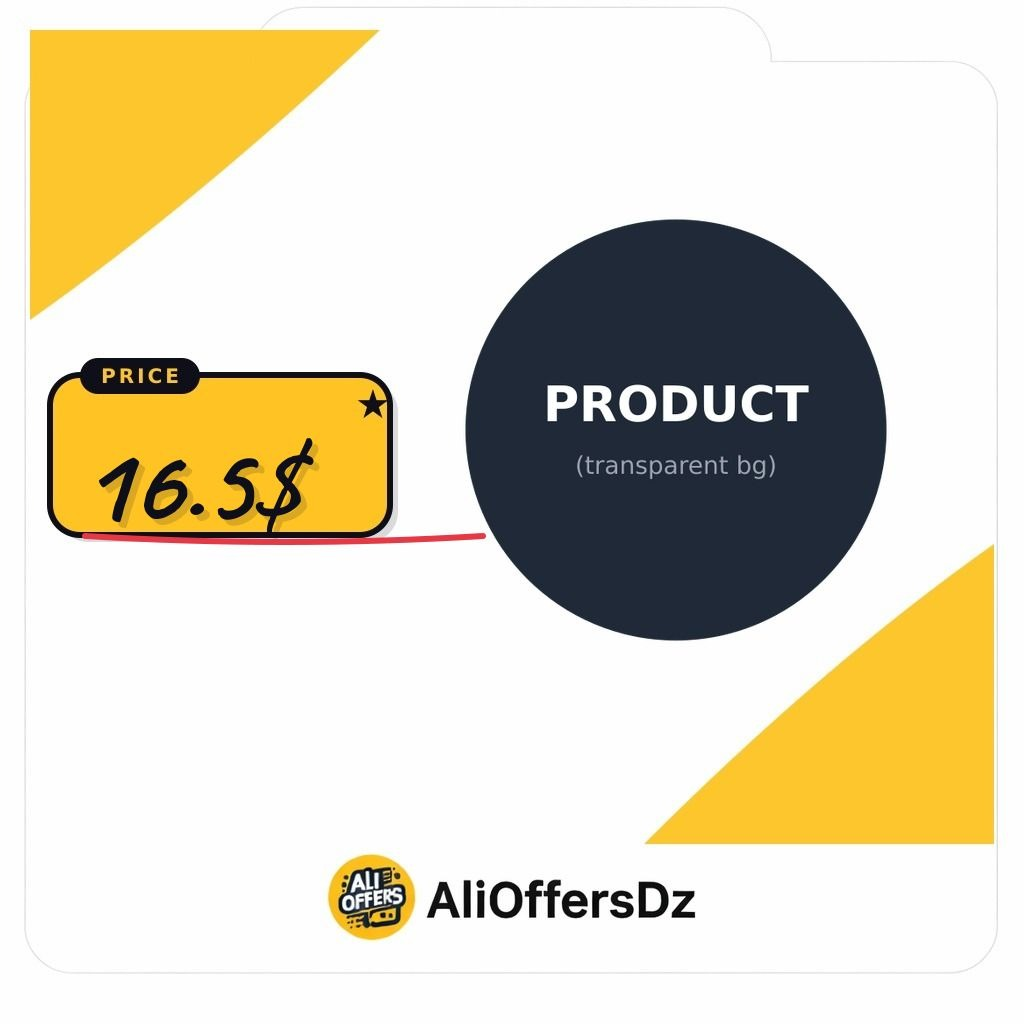
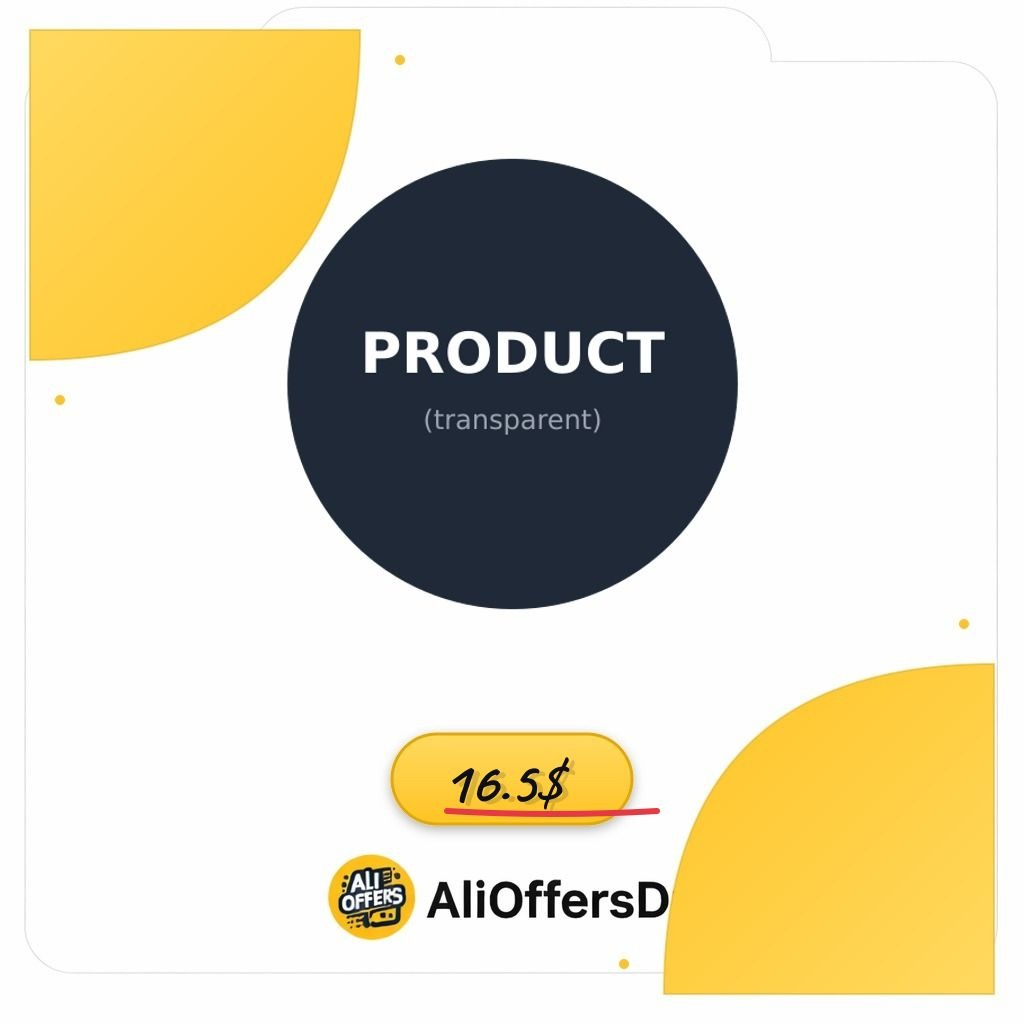
Refine the image frame design with elegant yellow accents and a compact price card
Update `scripts/build-frame.js` and `spy.js` to implement a new frame design featuring quarter-circle yellow swooshes, a smaller price card positioned above the logo, and adjusted product image geometry. Also updates `.agents/agent_assets_metadata.toml` with new preview titles.

Replit-Commit-Author: Agent
Replit-Commit-Session-Id: a89dbef6-46b1-4384-9ed6-a8899594a70d
Replit-Commit-Checkpoint-Type: full_checkpoint
Replit-Commit-Event-Id: 88ec38fa-cdcf-4f69-a44d-328d0ee09614
Replit-Commit-Screenshot-Url: https://storage.googleapis.com/screenshot-production-us-central1/1842d263-0a1c-4a9c-a11e-cf92325f49a5/a89dbef6-46b1-4384-9ed6-a8899594a70d/5ejVb7s
Replit-Helium-Checkpoint-Created: true

diff --git a/scripts/build-frame.js b/scripts/build-frame.js
@@ -1,45 +1,67 @@
-// إطار مبني على القالب المُرفق (بطاقة بيضاء + تبويبة + شعار) + لمسات صفراء + بطاقة سعر صفراء
+// إطار أنيق نهائي: قالب أبيض + منحنيات ربعية صفراء + بطاقة سعر صغيرة فوق الشعار
 const sharp = require('sharp');
 const path = require('path');
 const fs = require('fs');
 
 const TEMPLATE = path.join(__dirname, '..', 'public', 'base_frame_template.png');
 const YELLOW = '#FFC424';
+const YELLOW_LIGHT = '#FFD960';
 const YELLOW_DARK = '#E5A800';
 const BLACK = '#0F0F1A';
 
-// Geometry: المنتج يحتل المنطقة الوسطى الكبيرة من البطاقة البيضاء
-// innerLeft=10%, innerTop=18%, innerW=80%, innerH=58% → spy.js
-
 (async () => {
-  if (!fs.existsSync(TEMPLATE)) {
-    console.error('❌ القالب غير موجود:', TEMPLATE);
-    process.exit(1);
-  }
-
   const tplMeta = await sharp(TEMPLATE).metadata();
   const SIZE = tplMeta.width;
   console.log(`📐 حجم القالب: ${SIZE}x${tplMeta.height}`);
 
-  // ░░░ طبقة الزخارف الصفراء ░░░
+  // بطاقة السعر: أصغر، فوق شعار AliOffersDz
+  const PRICE_W = 240;
+  const PRICE_H = 90;
+  const PRICE_X = (SIZE - PRICE_W) / 2;
+  const PRICE_Y = SIZE - 290;  // مسافة كافية فوق الشعار
+
   const overlaySvg = `
 <svg width="${SIZE}" height="${SIZE}" xmlns="http://www.w3.org/2000/svg">
-  <!-- ░░░ منحنى أصفر علوي يسار (رفيع وأنيق) ░░░ -->
-  <path d="M 30 30 H 380 Q 200 200 30 320 Z" fill="${YELLOW}" opacity="0.95"/>
-  
-  <!-- ░░░ منحنى أصفر سفلي يمين ░░░ -->
-  <path d="M ${SIZE-30} ${SIZE-180} H ${SIZE-380} Q ${SIZE-200} ${SIZE-360} ${SIZE-30} ${SIZE-480} Z" fill="${YELLOW}" opacity="0.95"/>
+  <defs>
+    <linearGradient id="gradTL" x1="0%" y1="0%" x2="100%" y2="100%">
+      <stop offset="0%" stop-color="${YELLOW_LIGHT}"/>
+      <stop offset="100%" stop-color="${YELLOW}"/>
+    </linearGradient>
+    <linearGradient id="gradBR" x1="100%" y1="100%" x2="0%" y2="0%">
+      <stop offset="0%" stop-color="${YELLOW_LIGHT}"/>
+      <stop offset="100%" stop-color="${YELLOW}"/>
+    </linearGradient>
+    <linearGradient id="gradPrice" x1="0%" y1="0%" x2="0%" y2="100%">
+      <stop offset="0%" stop-color="${YELLOW_LIGHT}"/>
+      <stop offset="100%" stop-color="${YELLOW}"/>
+    </linearGradient>
+    <filter id="cardShadow" x="-20%" y="-20%" width="140%" height="160%">
+      <feGaussianBlur in="SourceAlpha" stdDeviation="6"/>
+      <feOffset dx="0" dy="4" result="offsetblur"/>
+      <feComponentTransfer><feFuncA type="linear" slope="0.3"/></feComponentTransfer>
+      <feMerge><feMergeNode/><feMergeNode in="SourceGraphic"/></feMerge>
+    </filter>
+  </defs>
 
-  <!-- ░░░ بطاقة السعر الصفراء (مكان لكتابة السعر ديناميكياً) ░░░ -->
-  <!-- ظل خفيف -->
-  <rect x="58" y="382" width="340" height="160" rx="30" fill="${BLACK}" opacity="0.15"/>
-  <!-- البطاقة الصفراء -->
-  <rect x="50" y="375" width="340" height="160" rx="30" fill="${YELLOW}" stroke="${BLACK}" stroke-width="6"/>
-  <!-- تسمية صغيرة "PRICE" أعلى البطاقة -->
-  <rect x="80" y="358" width="120" height="36" rx="18" fill="${BLACK}"/>
-  <text x="140" y="383" font-family="Arial Black, sans-serif" font-size="20" font-weight="900" fill="${YELLOW}" text-anchor="middle" letter-spacing="3">PRICE</text>
-  <!-- علامة نجمة زخرفية في زاوية البطاقة -->
-  <text x="355" y="418" font-family="Arial Black, sans-serif" font-size="40" font-weight="900" fill="${BLACK}">★</text>
+  <!-- ░░░ منحنى ربعي علوي يسار (نظيف ومنحني) ░░░ -->
+  <path d="M 30 30 H 360 Q 360 360 30 360 Z" fill="url(#gradTL)"/>
+  <path d="M 30 30 H 360 Q 360 360 30 360 Z" fill="none" stroke="${YELLOW_DARK}" stroke-width="2" opacity="0.5"/>
+
+  <!-- ░░░ منحنى ربعي سفلي يمين (مرآة) ░░░ -->
+  <path d="M ${SIZE-30} ${SIZE-30} H ${SIZE-360} Q ${SIZE-360} ${SIZE-360} ${SIZE-30} ${SIZE-360} Z" fill="url(#gradBR)"/>
+  <path d="M ${SIZE-30} ${SIZE-30} H ${SIZE-360} Q ${SIZE-360} ${SIZE-360} ${SIZE-30} ${SIZE-360} Z" fill="none" stroke="${YELLOW_DARK}" stroke-width="2" opacity="0.5"/>
+
+  <!-- نقاط زخرفية خفيفة -->
+  <circle cx="400" cy="60" r="5" fill="${YELLOW}"/>
+  <circle cx="60" cy="400" r="5" fill="${YELLOW}"/>
+  <circle cx="${SIZE-400}" cy="${SIZE-60}" r="5" fill="${YELLOW}"/>
+  <circle cx="${SIZE-60}" cy="${SIZE-400}" r="5" fill="${YELLOW}"/>
+
+  <!-- ░░░ بطاقة السعر الصغيرة الأنيقة ░░░ -->
+  <g filter="url(#cardShadow)">
+    <rect x="${PRICE_X}" y="${PRICE_Y}" width="${PRICE_W}" height="${PRICE_H}" rx="${PRICE_H/2}"
+          fill="url(#gradPrice)" stroke="${YELLOW_DARK}" stroke-width="3"/>
+  </g>
 </svg>`;
 
   const baseBuf = await sharp(TEMPLATE).png().toBuffer();
@@ -52,27 +74,24 @@ const BLACK = '#0F0F1A';
 
   const outPath = path.join(__dirname, '..', 'public', 'custom_frame.jpg');
   fs.writeFileSync(outPath, composedBuf);
-  console.log('✅ Built frame from template + yellow accents + price tag');
+  console.log('✅ Built clean frame with elegant quarter-curves + small price pill');
 
-  // ░░░ معاينة مع منتج وهمي + سعر ديناميكي ░░░
+  // ░░░ معاينة ░░░
   const { overlayPrice } = require(path.join(__dirname, '..', 'imageProcessor.js'));
 
-  const productSvg = `<svg width="700" height="600" xmlns="http://www.w3.org/2000/svg">
-    <rect width="700" height="600" fill="none"/>
-    <circle cx="350" cy="300" r="240" fill="#1F2937"/>
-    <text x="350" y="290" font-family="Arial Black" font-size="56" font-weight="900" fill="white" text-anchor="middle">PRODUCT</text>
-    <text x="350" y="350" font-family="Arial" font-size="28" fill="#9CA3AF" text-anchor="middle">(transparent bg)</text>
+  const productSvg = `<svg width="700" height="500" xmlns="http://www.w3.org/2000/svg">
+    <circle cx="350" cy="250" r="200" fill="#1F2937"/>
+    <text x="350" y="240" font-family="Arial Black" font-size="50" font-weight="900" fill="white" text-anchor="middle">PRODUCT</text>
+    <text x="350" y="290" font-family="Arial" font-size="24" fill="#9CA3AF" text-anchor="middle">(transparent)</text>
   </svg>`;
   const productBuf = await sharp(Buffer.from(productSvg)).png().toBuffer();
 
-  // المنتج: 36% left, 12% top, 60% wide, 60% tall (يتجنّب بطاقة السعر اليسرى)
-  const innerLeft = Math.round(SIZE * 0.36);
-  const innerTop = Math.round(SIZE * 0.12);
-  const innerW = Math.round(SIZE * 0.60);
-  const innerH = Math.round(SIZE * 0.60);
-  const resizedProduct = await sharp(productBuf)
-    .resize(innerW, innerH, { fit: 'inside' })
-    .toBuffer();
+  // المنتج: 12% top, 55% tall (يتوقّف قبل بطاقة السعر)
+  const innerLeft = Math.round(SIZE * 0.10);
+  const innerTop = Math.round(SIZE * 0.10);
+  const innerW = Math.round(SIZE * 0.80);
+  const innerH = Math.round(SIZE * 0.55);
+  const resizedProduct = await sharp(productBuf).resize(innerW, innerH, { fit: 'inside' }).toBuffer();
   const meta = await sharp(resizedProduct).metadata();
   const offX = innerLeft + Math.round((innerW - meta.width) / 2);
   const offY = innerTop + Math.round((innerH - meta.height) / 2);
@@ -82,8 +101,15 @@ const BLACK = '#0F0F1A';
     .jpeg({ quality: 92 })
     .toBuffer();
 
-  // السعر اليدوي داخل البطاقة الصفراء (top-left ~ x=80, y=420)
-  preview = await overlayPrice(preview, '16.5', { x: 80, y: 410, fontSize: 110, color: BLACK, accent: '#E63946' });
+  // السعر داخل البطاقة الصغيرة (مركز البطاقة)
+  // البطاقة 240x90 — السعر بحجم 56 يتمركز
+  preview = await overlayPrice(preview, '16.5', {
+    x: PRICE_X + 50,
+    y: PRICE_Y + 8,
+    fontSize: 60,
+    color: BLACK,
+    accent: '#E63946'
+  });
 
   await sharp(preview).jpeg({ quality: 92 }).toFile(path.join(__dirname, '..', 'public', 'preview_yellow.jpg'));
   console.log('✅ Preview saved');

diff --git a/spy.js b/spy.js
@@ -466,11 +466,11 @@ async function applyFrameToImage(productImage, imageUrl, watermark, opts = {}) {
 
     const meta = await sharp(useFramePath).metadata();
     const fW = meta.width, fH = meta.height;
-    // Geometry: المنتج في النصف الأيمن (يتجنّب بطاقة السعر الصفراء يسار)
-    const innerLeft = Math.round(fW * 0.36);
-    const innerTop = Math.round(fH * 0.12);
-    const innerW = Math.round(fW * 0.60);
-    const innerH = Math.round(fH * 0.60);
+    // Geometry: المنتج يحتل المنطقة العلوية، السعر بالأسفل في بطاقة صغيرة
+    const innerLeft = Math.round(fW * 0.10);
+    const innerTop = Math.round(fH * 0.10);
+    const innerW = Math.round(fW * 0.80);
+    const innerH = Math.round(fH * 0.55);
 
     // إزالة خلفية المنتج إذا مفعّلة
     let productBuf = buffer;
@@ -532,10 +532,13 @@ async function applyFrameToImage(productImage, imageUrl, watermark, opts = {}) {
       let price = opts.price || null;
       if (!price && opts.postText) price = extractPrice(opts.postText);
       if (price) {
-        // السعر يُكتب داخل البطاقة الصفراء (top-left ~ x=80, y=410, font 110)
-        const priceX = Math.round(fW * 0.078);
-        const priceY = Math.round(fH * 0.40);
-        const priceFontSize = Math.round(fH * 0.107);
+        // السعر داخل البطاقة الصغيرة بالأسفل (240x90 فوق الشعار)
+        const PRICE_W = 240;
+        const PRICE_X = Math.round((fW - PRICE_W) / 2);
+        const PRICE_Y = fH - 290;
+        const priceFontSize = 60;
+        const priceX = PRICE_X + 50;
+        const priceY = PRICE_Y + 8;
         result = await overlayPrice(result, String(price).replace(',', '.'), {
           x: priceX, y: priceY, fontSize: priceFontSize
         });